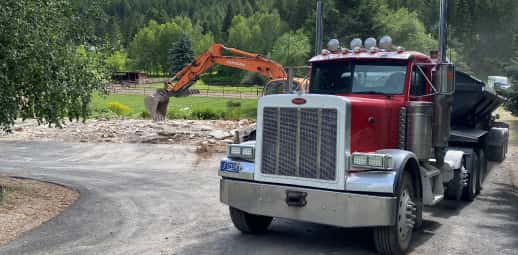
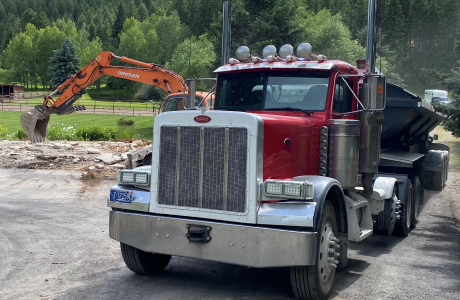
Optimize images and add footer

diff --git a/css/style.css b/css/style.css
@@ -2,7 +2,7 @@
 
 :root {
   --main-bg-color: #e31414;
-  --secondary-bg-color: #392828;
+  --secondary-bg-color: #000;
   --global-padding: 24px;
   --global-padding-m: 34px;
 }
@@ -16,6 +16,14 @@ body {
   margin: 0;
   color: #fff;
   overflow-x: hidden;
+}
+
+ul,
+li {
+  margin: 0;
+  padding: 0;
+  text-decoration: none;
+  list-style-type: none;
 }
 
 a {
@@ -170,6 +178,7 @@ nav .button {
 
 .overlay {
   width: 100%;
+  max-width: 720px;
   text-align: center;
   background-color: #fff;
   transition: transform 0.8s ease-out;
@@ -294,13 +303,59 @@ nav .button {
   padding-bottom: 36px;
 }
 
+footer {
+  padding-top: 1.625em;
+  padding-bottom: 1.6225em;
+  background-color: #c4c4c4;
+}
+
+footer > * + * {
+  /* padding-bottom: 0.3125em; */
+  display: block;
+  padding-top: 0.4em;
+}
+
+footer .logo img {
+  padding-bottom: 0;
+}
+
+.facebook img {
+  display: block;
+  margin: 0 auto;
+}
+
+.footer-links {
+  display: flex;
+  justify-content: center;
+}
+
+.footer-links > * + * {
+  margin-left: 1em;
+}
+
+.footer-links a {
+  color: #000;
+}
+
+.footer-links li {
+  text-align: center;
+}
+
+.footer-links li:first-of-type {
+  max-width: 7ch;
+}
+
+.footer-links li:nth-of-type(2) {
+  max-width: 9ch;
+}
+
+.footer-links li:nth-of-type(3) {
+  max-width: 6ch;
+}
+
 @media only screen and (min-width: 700px) {
   .spacer {
     padding: var(--global-padding-m);
-  }
-
-  .secondary-bg-color {
-    background-color: #000;
   }
 
   .flex-right {

diff --git a/index.html b/index.html
@@ -94,30 +94,15 @@
   </div>
 
   <footer>
-    <div class="footer-col">
-      <h4>Jump to</h4>
-      <a>Top of Page</a>
-      <a>Our Services</a>
-      <a>Land Maintenence</a>
-    </div>
-    
-    <div class="footer-col">
-      <h4>Legal</h4>
-      <a>Imprint / Privacy</a>
-      <a>Term & Conditions</a>
-    </div>
+    <a class="logo" href="index.html"><img src="img/logo.png" alt="Double J logo"></a>
+    <a class="facebook" href="index.html"><img src="icon/facebook.svg" alt="Facebook icon"></a>
+    <ul class="footer-links">
+      <li><a href="#">Imprint / Privacy</a></li>
+      <li><a href="#">Terms & Conditions</a></li>
+      <li><a href="#">Back to Top</a></li>
+    </ul>
 
-    <div class="footer-col">
-      <h4>Contact info</h4>
-      <a>1-406-123-4567</a>
-      <a>email@gmail.com</a>
-    </div>
 
-    <div class="footer-col">
-      <h4>Stay Connected</h4>
-      <a>1-406-123-4567</a>
-      <a>email@gmail.com</a>
-    </div>   
   </footer>
 
   <script src="script.js"></script>

diff --git a/css/maintenance.css b/css/maintenance.css
@@ -37,12 +37,12 @@
 }
 
 .maint-card:first-of-type {
-  background-image: url(../img2/maint-card1.jpg);
+  background-image: url(../img2/maint-card11.jpg);
   background-position: center;
 }
 
 .maint-card:nth-of-type(2) {
-  background-image: url(../img2/maint-card2.jpg);
+  background-image: url(../img2/maint-card22.jpg);
 }
 
 .maint-card:nth-of-type(2):before {
@@ -51,6 +51,7 @@
     rgba(0, 0, 0, 0.7),
     rgba(242, 242, 242, 0.3)
   );
+  /* background-image: none; */
 }
 
 .maint-card p {

diff --git a/maintenance.html b/maintenance.html
@@ -9,7 +9,7 @@
 </head>
 <body>
   <header class="nav-bar">
-    <a class="logo" href="index.html"><img src="img/logo2.png" alt="Double J Trucking logo"></a>
+    <a class="logo" href="index.html"><img src="img/logo.png" alt="Double J Trucking logo"></a>
     <nav class="black">
       <ul>
         <li><a href="index.html">Hauling</a></li>
